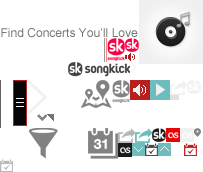
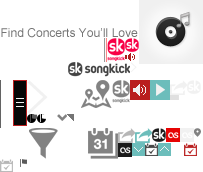
Adding fancy alert dialogs

Changed region(s): [[0.1182, 0.6395, 0.3842, 0.7267], [0.0887, 0.9302, 0.1478, 0.9593]]

diff --git a/Styles/icons.css b/Styles/icons.css
@@ -1,4 +1,4 @@
-/* glue: 0.2.9.1 hash: a4d4b9b356 */
+/* glue: 0.2.9.1 hash: cd690cf248 */
 .sprite-icons-Logo,
 .sprite-icons-SongKick-Footer,
 .sprite-icons-LastFM-Footer,
@@ -38,11 +38,15 @@
 .sprite-icons-Calendar---Red,
 .sprite-icons-Calendar---Gray,
 .sprite-icons-Nav-Button-Right-Arrow-White,
+.sprite-icons-flag-black-circle-gray,
+.sprite-icons-flag-black-circle-gray-white,
 .sprite-icons-Speaker-Small,
 .sprite-icons-Arrow-White,
 .sprite-icons-Arrow-Gray,
 .sprite-icons-MapPin,
 .sprite-icons-Background-Module-Transparent,
+.sprite-icons-flag-white,
+.sprite-icons-flag-gray,
 .sprite-icons-Calendar-Corner-Tab-Gray{background-image:url('../images/icons.png');background-repeat:no-repeat;display:inline-block;}
 .sprite-icons-Logo{background-position:0px 0px;width:139px;height:38px;}
 .sprite-icons-SongKick-Footer{background-position:0px -38px;width:104px;height:24px;}
@@ -83,9 +87,13 @@
 .sprite-icons-Calendar---Red{background-position:-184px -143px;width:13px;height:13px;}
 .sprite-icons-Calendar---Gray{background-position:0px -159px;width:13px;height:13px;}
 .sprite-icons-Nav-Button-Right-Arrow-White{background-position:-130px -62px;width:7px;height:11px;}
+.sprite-icons-flag-black-circle-gray{background-position:-27px -114px;width:10px;height:9px;}
+.sprite-icons-flag-black-circle-gray-white{background-position:-37px -114px;width:10px;height:9px;}
 .sprite-icons-Speaker-Small{background-position:-125px -53px;width:10px;height:8px;}
-.sprite-icons-Arrow-White{background-position:-27px -114px;width:10px;height:7px;}
-.sprite-icons-Arrow-Gray{background-position:-37px -114px;width:10px;height:7px;}
+.sprite-icons-Arrow-White{background-position:-47px -114px;width:10px;height:7px;}
+.sprite-icons-Arrow-Gray{background-position:-57px -114px;width:10px;height:7px;}
 .sprite-icons-MapPin{background-position:-194px -128px;width:7px;height:9px;}
 .sprite-icons-Background-Module-Transparent{background-position:-170px -95px;width:9px;height:5px;}
-.sprite-icons-Calendar-Corner-Tab-Gray{background-position:-47px -114px;width:7px;height:7px;}
+.sprite-icons-flag-white{background-position:-13px -159px;width:7px;height:8px;}
+.sprite-icons-flag-gray{background-position:-20px -159px;width:7px;height:8px;}
+.sprite-icons-Calendar-Corner-Tab-Gray{background-position:-67px -114px;width:7px;height:7px;}

diff --git a/images/sprites/icons.css b/images/sprites/icons.css
@@ -1,4 +1,4 @@
-/* glue: 0.2.9.1 hash: a4d4b9b356 */
+/* glue: 0.2.9.1 hash: cd690cf248 */
 .sprite-icons-Logo,
 .sprite-icons-SongKick-Footer,
 .sprite-icons-LastFM-Footer,
@@ -38,11 +38,15 @@
 .sprite-icons-Calendar---Red,
 .sprite-icons-Calendar---Gray,
 .sprite-icons-Nav-Button-Right-Arrow-White,
+.sprite-icons-flag-black-circle-gray,
+.sprite-icons-flag-black-circle-gray-white,
 .sprite-icons-Speaker-Small,
 .sprite-icons-Arrow-White,
 .sprite-icons-Arrow-Gray,
 .sprite-icons-MapPin,
 .sprite-icons-Background-Module-Transparent,
+.sprite-icons-flag-white,
+.sprite-icons-flag-gray,
 .sprite-icons-Calendar-Corner-Tab-Gray{background-image:url('icons.png');background-repeat:no-repeat}
 .sprite-icons-Logo{background-position:0px 0px;width:139px;height:38px;}
 .sprite-icons-SongKick-Footer{background-position:0px -38px;width:104px;height:24px;}
@@ -83,9 +87,13 @@
 .sprite-icons-Calendar---Red{background-position:-184px -143px;width:13px;height:13px;}
 .sprite-icons-Calendar---Gray{background-position:0px -159px;width:13px;height:13px;}
 .sprite-icons-Nav-Button-Right-Arrow-White{background-position:-130px -62px;width:7px;height:11px;}
+.sprite-icons-flag-black-circle-gray{background-position:-27px -114px;width:10px;height:9px;}
+.sprite-icons-flag-black-circle-gray-white{background-position:-37px -114px;width:10px;height:9px;}
 .sprite-icons-Speaker-Small{background-position:-125px -53px;width:10px;height:8px;}
-.sprite-icons-Arrow-White{background-position:-27px -114px;width:10px;height:7px;}
-.sprite-icons-Arrow-Gray{background-position:-37px -114px;width:10px;height:7px;}
+.sprite-icons-Arrow-White{background-position:-47px -114px;width:10px;height:7px;}
+.sprite-icons-Arrow-Gray{background-position:-57px -114px;width:10px;height:7px;}
 .sprite-icons-MapPin{background-position:-194px -128px;width:7px;height:9px;}
 .sprite-icons-Background-Module-Transparent{background-position:-170px -95px;width:9px;height:5px;}
-.sprite-icons-Calendar-Corner-Tab-Gray{background-position:-47px -114px;width:7px;height:7px;}
+.sprite-icons-flag-white{background-position:-13px -159px;width:7px;height:8px;}
+.sprite-icons-flag-gray{background-position:-20px -159px;width:7px;height:8px;}
+.sprite-icons-Calendar-Corner-Tab-Gray{background-position:-67px -114px;width:7px;height:7px;}

diff --git a/Scripts/GigCast.js b/Scripts/GigCast.js
@@ -231,6 +231,27 @@ $( "#video-issue-dialog" ).dialog({
         $( "#video-issue-dialog" ).dialog("open");
     })
 
+$( "#alertDialog" ).dialog({
+      autoOpen: false,
+      height: 150,
+      width: 350,
+      modal: true,
+    closeOnEscape: true,
+    draggable: false,
+    resizable: false,
+      // position: { my: "right top", at: "right bottom", of:"#tabs-1", collision:"none none" },//clearGenreFilter
+      buttons: {
+
+        Close: function() {
+          $( this ).dialog( "close" );
+        }
+      }
+      // ,
+      // close: function() {
+      //   allFields.val( "" ).removeClass( "ui-state-error" );
+      // }
+    });
+
     // $( "#locationSelector" ).click(function() {
     //     ($("#dialog").dialog("isOpen") == false) ? $("#dialog").dialog("open") : $("#dialog").dialog("close") ;
     //     return false;
@@ -792,7 +813,7 @@ function updateLocationCallback(data) {
 
         updateClick();
     } else {
-        alert("Could not find location: " + $("#updLocationTxt").val());
+        dialogAlert("Could not find location: " + $("#updLocationTxt").val());
     }
 }
 
@@ -2173,4 +2194,10 @@ function submitVideoIssue() {
     $.post( url, {}); 
 
     $("#video-issue-dialog").dialog("close");
+    dialogAlert("Thank you for your feedback!");
+}
+
+function dialogAlert(message) {
+    $("#dialog-alert-message").html(message);
+    $("#alertDialog").dialog("open");
 }

diff --git a/Styles/Site.css b/Styles/Site.css
@@ -1276,8 +1276,14 @@ div.ui-dialog-buttonpane.ui-widget-content.ui-helper-clearfix {
 #reportVideoButton {
     margin-top:3px;
     font-size:.9em;
+    cursor: pointer;
 }
 
 textarea {
     resize: none;
+}
+
+#dialog-alert-message {
+    text-align:center;
+    width:100%;
 }
